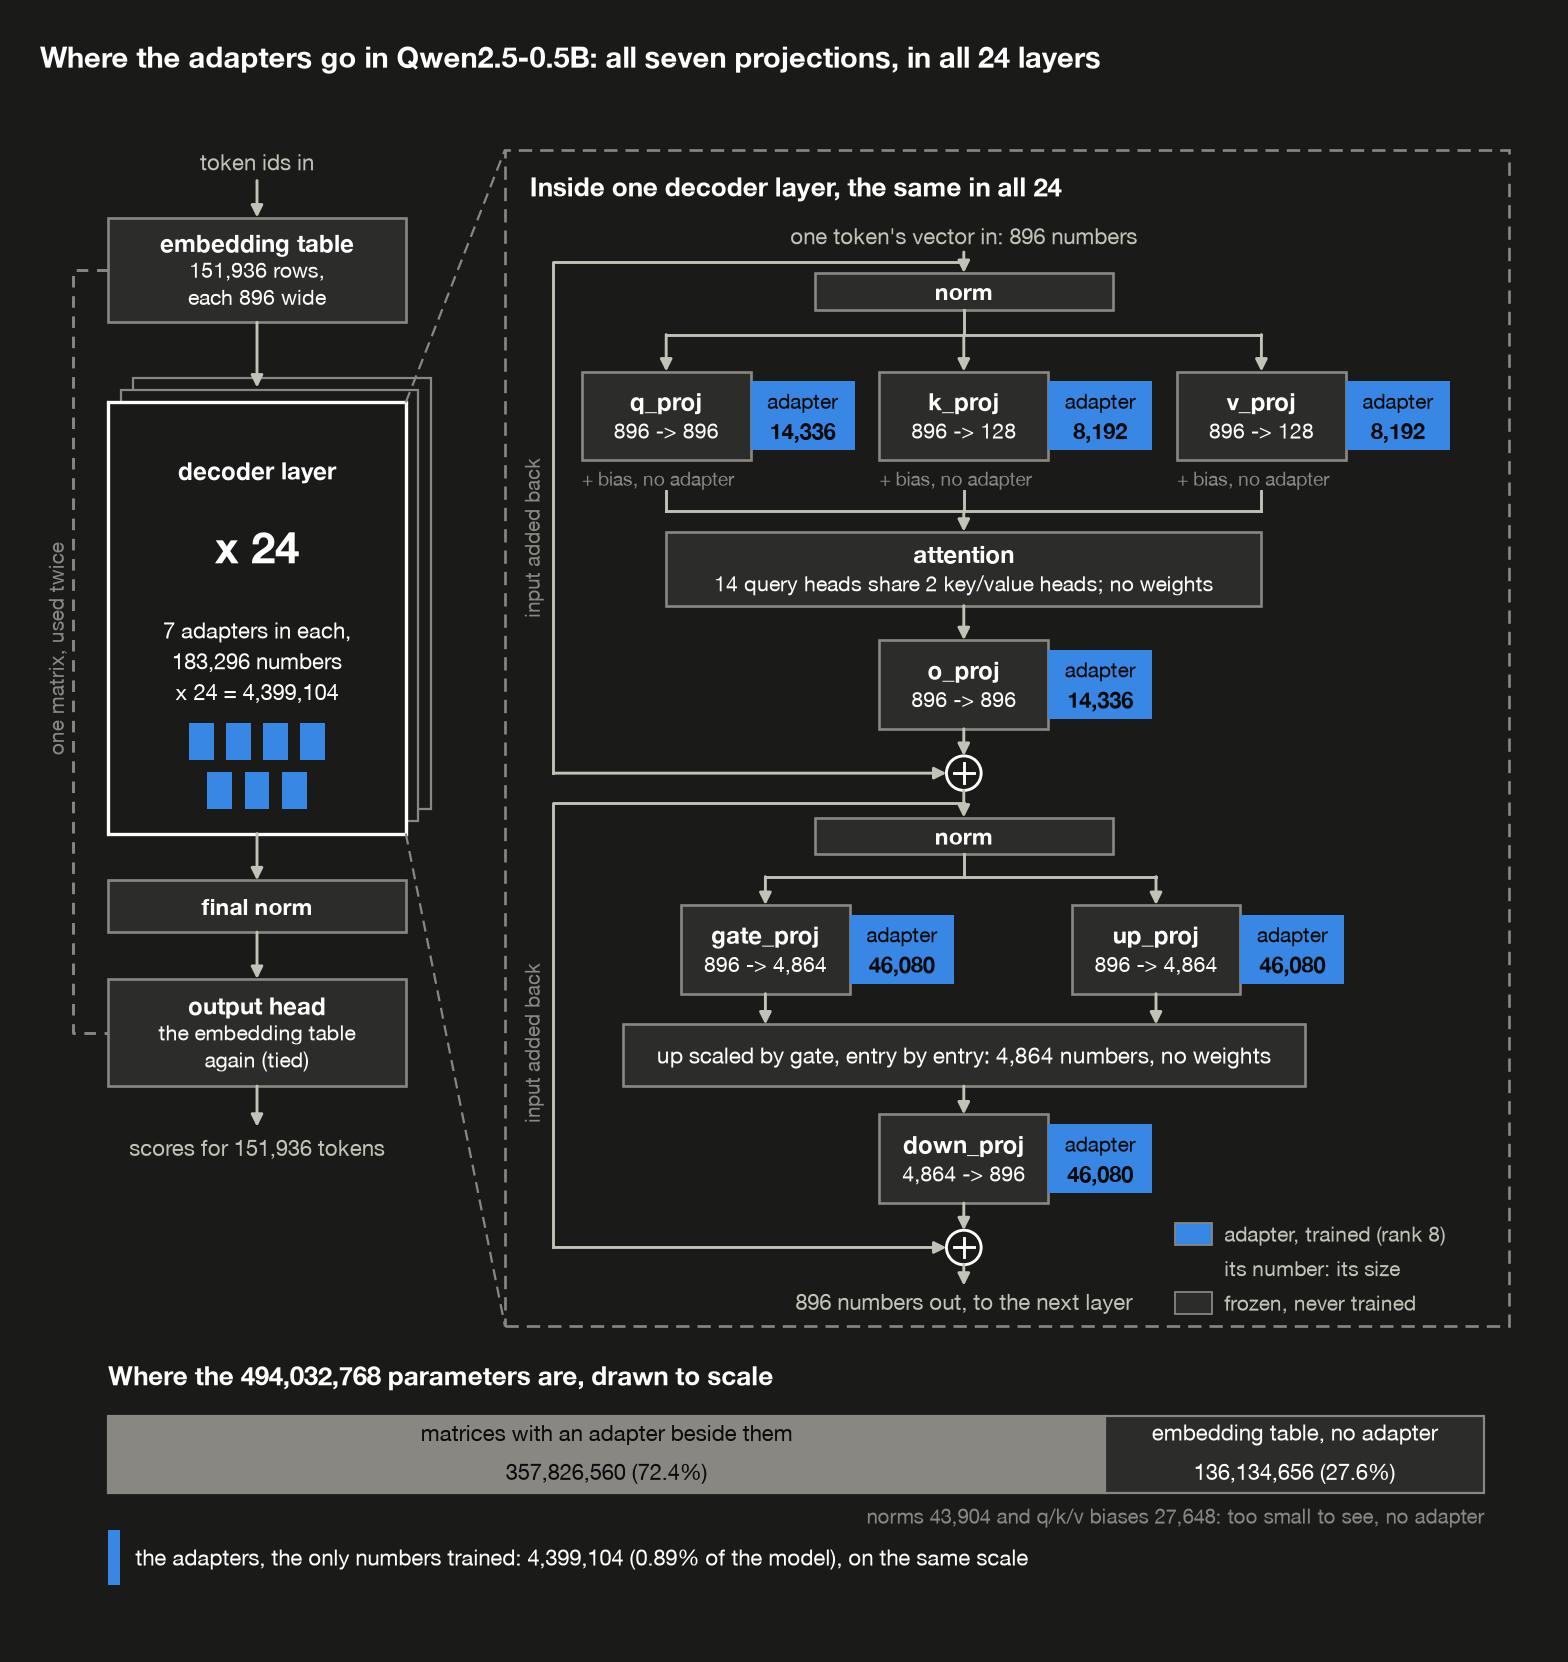
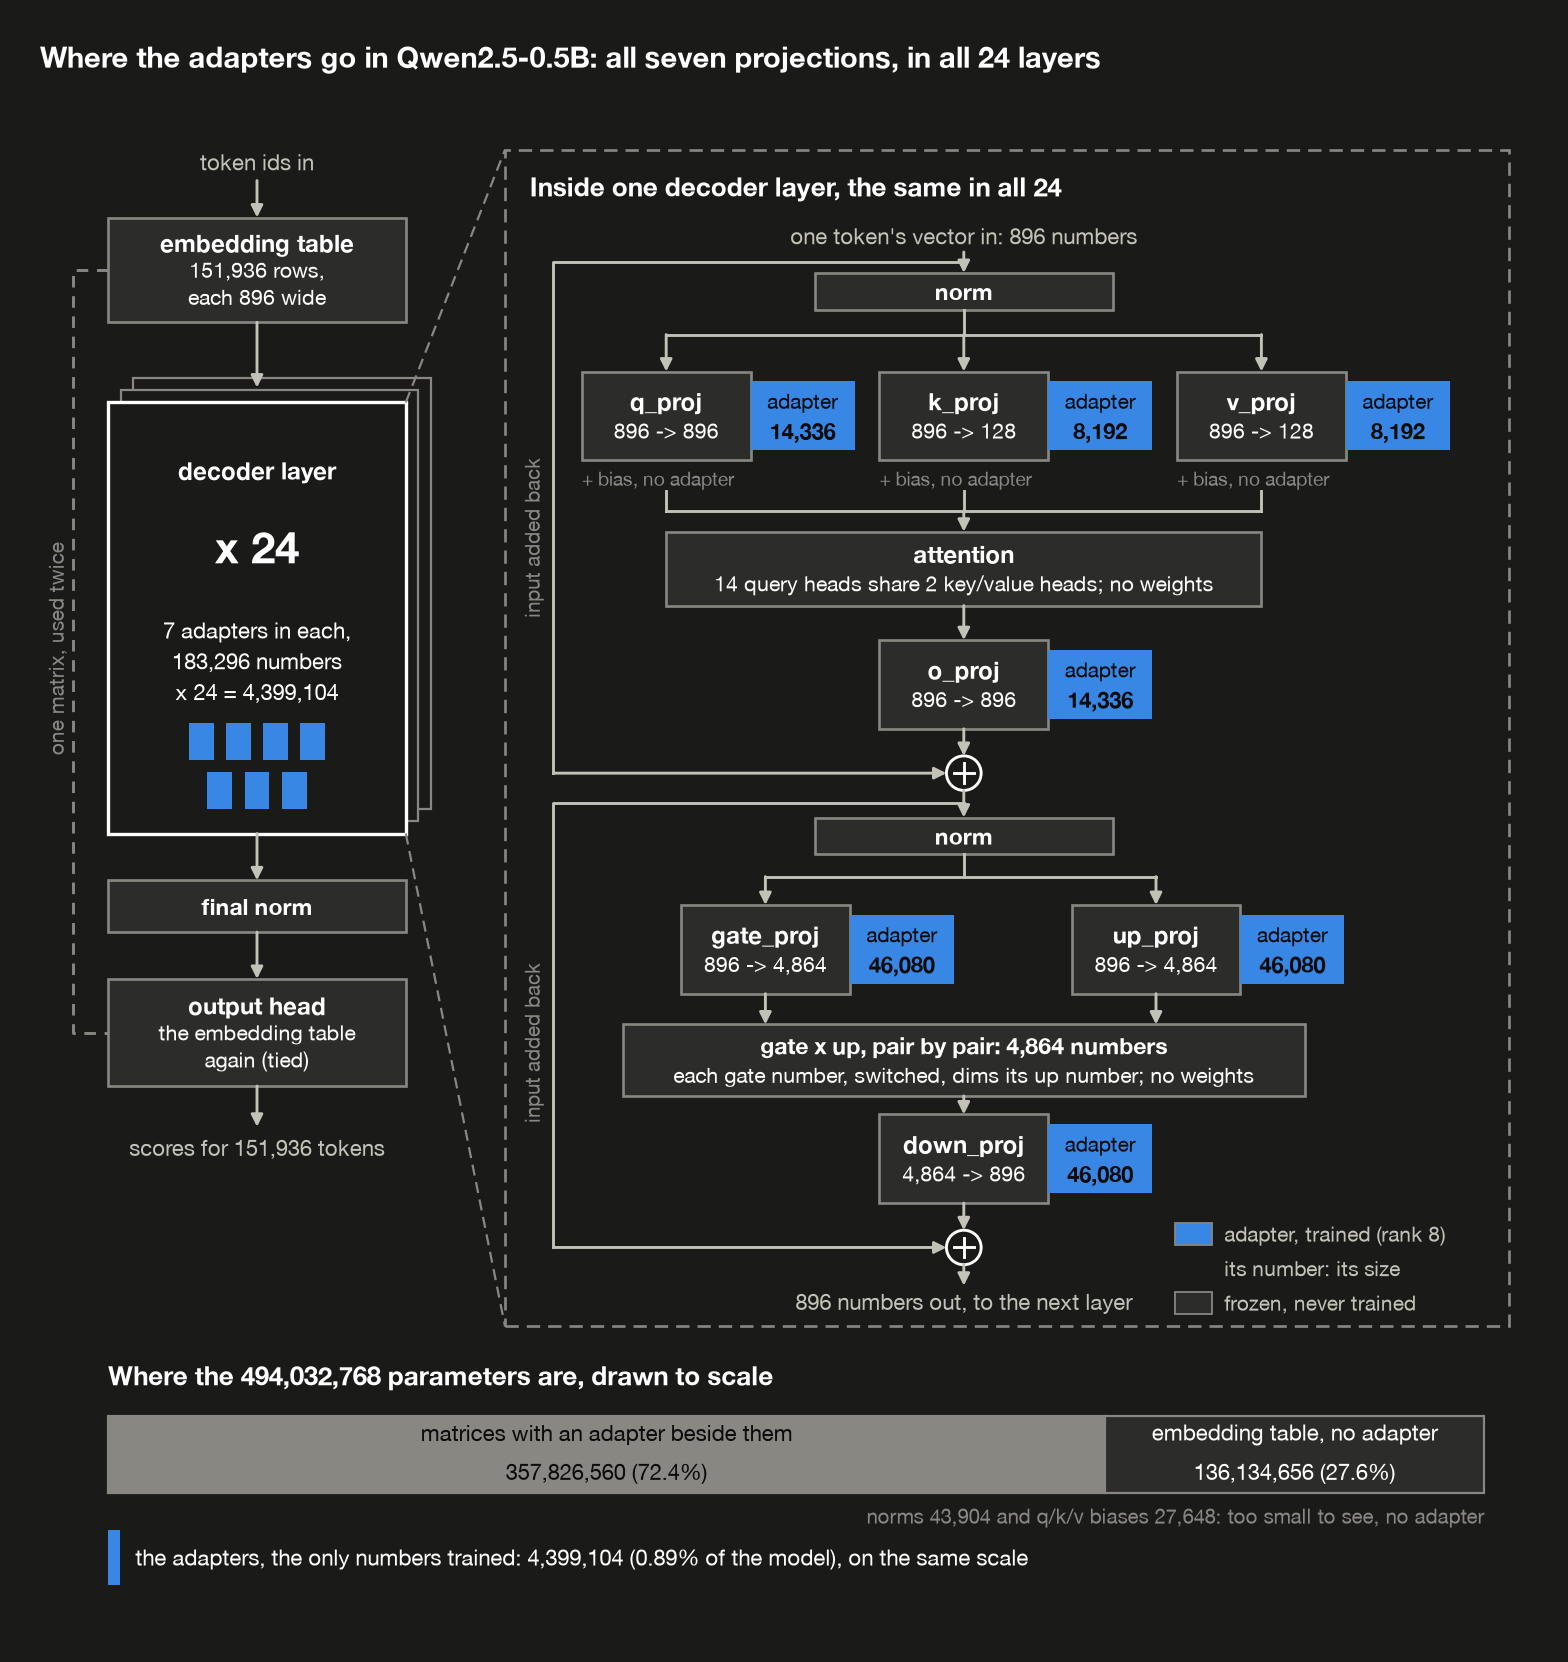
Post 6: explain the MLP's gate step in §3, figure label says what it does

Changed region(s): [[0.4062, 0.6137, 0.8125, 0.6751]]

diff --git a/_posts/2026-09-26-llm-architectures-lora.md b/_posts/2026-09-26-llm-architectures-lora.md
@@ -234,7 +234,7 @@ An adapter is attached to a matrix, so "using LoRA" means choosing *which* matri
 ![Where the adapters go in Qwen2.5-0.5B: the whole model on the left, one decoder layer opened up on the right with an adapter beside each of its seven projection matrices, and a to-scale strip of the model's parameters](/assets/picture/2026-09-26-llm-architectures-lora/adapter-placement-light.png){: .light width="1000" height="1060" }
 ![Where the adapters go in Qwen2.5-0.5B: the whole model on the left, one decoder layer opened up on the right with an adapter beside each of its seven projection matrices, and a to-scale strip of the model's parameters](/assets/picture/2026-09-26-llm-architectures-lora/adapter-placement-dark.png){: .dark width="1000" height="1060" }
 
-On the left is the whole model, top to bottom: the embedding table turns token ids into vectors, 24 identical decoder layers transform them, a final norm rescales the result, and the output head turns it into a score for every token in the vocabulary. The embedding table and the output head are **tied**: two parts of the model share one matrix. On the way in, a token id picks out one row of it, 896 numbers, as that token's vector. On the way out, the final vector is compared with every row: multiply the two entry by entry and add up the 896 products, and the result is that row's token's score, high when the vector and the row point the same way. The scores then become probabilities for the next token. The final norm comes just before that comparison: after 24 layers that each add their result back on, the vector can be any size, so the norm divides it by its typical entry size and multiplies each entry by a learned weight (896 numbers, all it has), and the vector arrives at the head at a predictable size. Because one matrix of 151,936 rows does both the reading in and the scoring out, the model stores it once. On the right, one of those 24 layers is opened up. Each blue badge is an adapter, attached to one of the seven projection matrices and labelled with how many numbers it holds; attention's four go by their code names there, `q_proj` for $W_q$ and so on. Everything gray is frozen and gets no adapter: the two norms, the small bias vectors on `q_proj`, `k_proj` and `v_proj`, and the embedding table. Attention itself and the MLP's step that scales `up` by `gate` have no weights at all, so there's nothing there to adapt. The lines down the left edge carry each half's input around it and add it back afterwards, as in every transformer block [post 1](/posts/llm-architectures-attention-and-rope/) took apart. The strip at the bottom puts the whole thing to scale.
+On the left is the whole model, top to bottom: the embedding table turns token ids into vectors, 24 identical decoder layers transform them, a final norm rescales the result, and the output head turns it into a score for every token in the vocabulary. The embedding table and the output head are **tied**: two parts of the model share one matrix. On the way in, a token id picks out one row of it, 896 numbers, as that token's vector. On the way out, the final vector is compared with every row: multiply the two entry by entry and add up the 896 products, and the result is that row's token's score, high when the vector and the row point the same way. The scores then become probabilities for the next token. The final norm comes just before that comparison: after 24 layers that each add their result back on, the vector can be any size, so the norm divides it by its typical entry size and multiplies each entry by a learned weight (896 numbers, all it has), and the vector arrives at the head at a predictable size. Because one matrix of 151,936 rows does both the reading in and the scoring out, the model stores it once. On the right, one of those 24 layers is opened up. Each blue badge is an adapter, attached to one of the seven projection matrices and labelled with how many numbers it holds; attention's four go by their code names there, `q_proj` for $W_q$ and so on. Everything gray is frozen and gets no adapter: the two norms, the small bias vectors on `q_proj`, `k_proj` and `v_proj`, and the embedding table. Two steps have no weights at all, so there's nothing in them to adapt. One is attention itself. The other is the MLP's middle step: `gate_proj` and `up_proj` each turn the 896 numbers into 4,864, each gate number passes through a smooth on/off switch (SiLU, which leaves large positive numbers nearly unchanged and pushes negative ones toward zero), and the result multiplies the up number in the same position. Each gate number acts as a dimmer on one up number, set by the input itself; [post 1](/posts/llm-architectures-attention-and-rope/#the-ffn) explains why that works better than a fixed rule. The lines down the left edge carry each half's input around it and add it back afterwards, as in every transformer block [post 1](/posts/llm-architectures-attention-and-rope/) took apart. The strip at the bottom puts the whole thing to scale.
 
 The badge sizes come from the census ([`where_the_adapters_go`](https://github.com/bearbearyu1223/llm-architectures-refresher/blob/main/src/llmrefresher/demos/d06_lora.py)):
 
